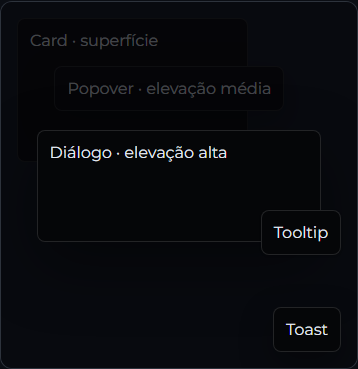
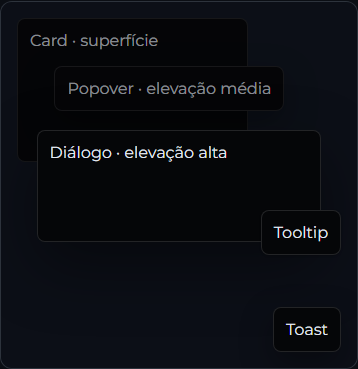
fix(validacao): suavize backdrop escuro nas cenas

Changed region(s): [[0.3994, 0.2087, 0.7682, 0.2683], [0.0615, 0.0894, 0.4609, 0.1491], [0.1844, 0.2087, 0.3687, 0.2683]]

diff --git a/apps/flutter-validate/lib/main.dart b/apps/flutter-validate/lib/main.dart
@@ -162,7 +162,7 @@ Widget _layerScene(HarpiaColorTokens colors, bool dark) {
           Container(color: colors.backgroundMuted),
           Positioned(top: 16, left: 16, child: box('Card · superfície', width: width * 0.65, height: 144)),
           Positioned(top: 64, left: width * 0.15, child: box('Popover · elevação média', width: width * 0.7, blur: dark ? 32 : 24, dy: dark ? 12 : 8, alpha: dark ? 0.34 : 0.12)),
-          Positioned.fill(child: ColoredBox(color: colors.backgroundOverlay)),
+          Positioned.fill(child: ColoredBox(key: const ValueKey('diagnostic-backdrop'), color: dark ? colors.backgroundOverlay.withValues(alpha: 0.4) : colors.backgroundOverlay)),
           Positioned(top: 128, left: width * 0.1, child: box('Diálogo · elevação alta', width: width * 0.8, height: 112, blur: dark ? 64 : 48, dy: dark ? 24 : 18, alpha: dark ? 0.42 : 0.16)),
           Positioned(top: 208, right: 16, child: box('Tooltip', width: width * 0.35, blur: 2, dy: 1, alpha: dark ? 0.24 : 0.08)),
           Positioned(bottom: 16, right: 16, child: box('Toast', width: width * 0.5, blur: dark ? 32 : 24, dy: dark ? 12 : 8, alpha: dark ? 0.34 : 0.12)),

diff --git a/apps/flutter-validate/test/widget_test.dart b/apps/flutter-validate/test/widget_test.dart
@@ -61,11 +61,14 @@ void main() {
     expect(find.text('Diálogo · elevação alta'), findsOneWidget);
     expect(find.text('Tooltip'), findsOneWidget);
     expect(find.text('Toast'), findsOneWidget);
+    final backdrop = find.byKey(const ValueKey('diagnostic-backdrop'));
+    expect(tester.widget<ColoredBox>(backdrop).color.a, closeTo(0.4, 0.01));
     expect(tester.takeException(), isNull);
     await tester.scrollUntilVisible(find.text('Tema escuro'), -300, scrollable: find.byType(Scrollable).first);
     await tester.tap(find.text('Tema escuro'));
     await tester.pumpAndSettle();
     await tester.scrollUntilVisible(find.text('Card · superfície'), 300, scrollable: find.byType(Scrollable).first);
+    expect(tester.widget<ColoredBox>(backdrop).color.a, closeTo(0.4, 0.01));
     expect(tester.takeException(), isNull);
   });
 }

diff --git a/apps/angular-validate/src/layer-scene.css b/apps/angular-validate/src/layer-scene.css
@@ -3,6 +3,7 @@
 .layer-card { z-index: 1; top: 1rem; left: 1rem; width: 65%; height: 9rem; box-shadow: none; }
 .layer-popover { z-index: 2; top: 4rem; left: 15%; box-shadow: 0 8px 24px rgb(0 0 0 / 0.12); }
 .layer-backdrop { position: absolute; z-index: 3; inset: 0; background: var(--harpia-color-background-overlay); }
+[data-harpia-theme='dark'] .layer-backdrop { background: rgb(5 6 8 / 0.4); }
 .layer-dialog { z-index: 4; top: 8rem; left: 10%; width: 80%; min-height: 7rem; box-shadow: 0 18px 48px rgb(0 0 0 / 0.16); }
 .layer-tooltip { z-index: 5; top: 13rem; right: 1rem; box-shadow: 0 1px 2px rgb(0 0 0 / 0.08); }
 .layer-toast { z-index: 6; right: 1rem; bottom: 1rem; box-shadow: 0 8px 24px rgb(0 0 0 / 0.12); }

diff --git a/docs/context/phase2-shadow-layer-audit.md b/docs/context/phase2-shadow-layer-audit.md
@@ -33,6 +33,6 @@ Após aprovação do caminho pelo analista, as aplicações `angular-validate` e
 | Angular | [Captura](images/layers-angular-light.png) | [Captura](images/layers-angular-dark.png) | Build sem aviso de orçamento; 4 testes unitários aprovados. Chrome confirmou seis camadas com z-index 1–6, sombras presentes nos quatro elementos elevados, card sem sombra, 29 amostras tipográficas e ausência de overflow horizontal em 100% e zoom real de 200%. |
 | Flutter web | [Captura](images/layers-flutter-light.png) | [Captura](images/layers-flutter-dark.png) | `flutter analyze` sem problemas, 4 testes de widget aprovados, incluindo cena em 2× nos dois temas; build web aprovado. O APK Android atualizado também compilou, mas a nova cena não foi testada em dispositivo físico. |
 
-As capturas a 390 px mostram a mesma hierarquia geral nas duas plataformas. A posição e o tamanho das caixas diferem, e o backdrop reduz muito a visibilidade do card e do popover no tema escuro. A cena é uma prova de composição; ainda não demonstra paridade visual final, acessibilidade de overlays reais, foco, teclado, Escape ou ordem de pintura entre contextos externos. O teste Angular de 200% verificou DOM e estilos calculados; a captura isolada da cena nesse zoom saiu em branco no Chrome headless e não é usada como evidência visual.
+As capturas a 390 px mostram a mesma hierarquia geral nas duas plataformas. A posição e o tamanho das caixas diferem. Na primeira versão, o backdrop escuro herdava `color.background.overlay` com opacidade `0,72` e reduzia muito a visibilidade do card e do popover. **Ajuste autorizado pelo analista:** somente na cena diagnóstica escura, a opacidade foi reduzida para `0,40`, mantendo a base RGB `5, 6, 8`; a captura escura de cada plataforma foi atualizada. O token compartilhado continua em `0,72` e sua alteração pública não foi aprovada. Chrome verificou as cores calculadas do backdrop (`rgba(15, 23, 42, 0.4)` no claro e `rgba(5, 6, 8, 0.4)` no escuro); o teste Flutter verificou opacidade `0,4` nos dois temas em escala 2×. A cena é uma prova de composição; ainda não demonstra paridade visual final, acessibilidade de overlays reais, foco, teclado, Escape ou ordem de pintura entre contextos externos. O teste Angular de 200% verificou DOM e estilos calculados; a captura isolada da cena nesse zoom saiu em branco no Chrome headless e não é usada como evidência visual.
 
-**Próxima decisão:** aprovar ou ajustar a ordem semântica, a intensidade do backdrop e os papéis/valores de sombra para claro e escuro. Só depois disso converter a prova em tokens compartilhados e validar componentes reais.
+**Próxima decisão:** avaliar se a ordem semântica proposta e a intensidade `0,40` da prova devem se tornar contrato Harpia, além de decidir os papéis/valores de sombra para claro e escuro. Só depois disso converter a prova em tokens compartilhados e validar componentes reais.
